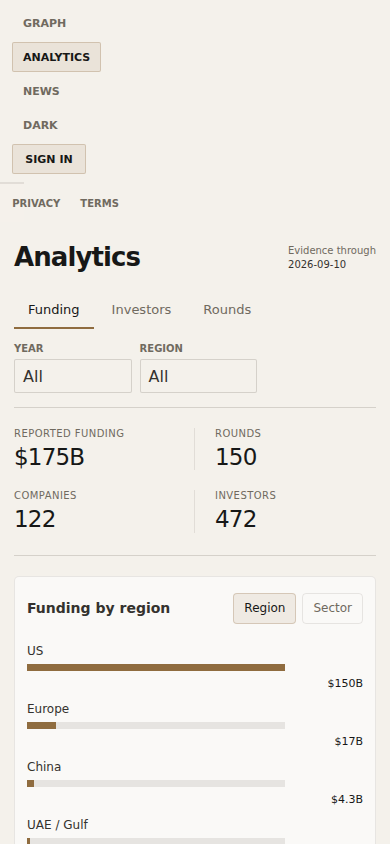
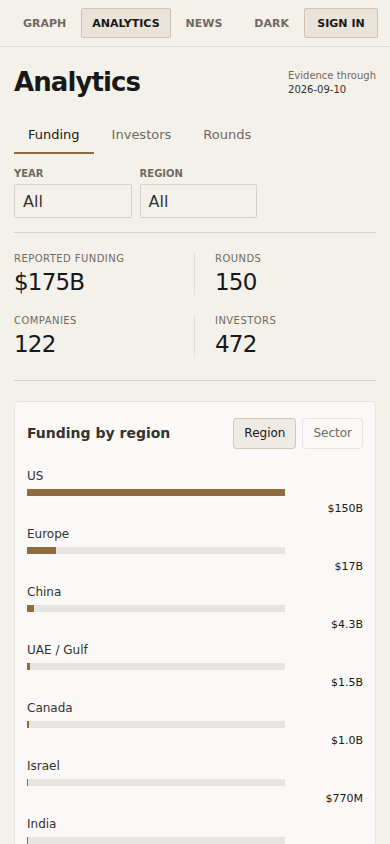
Isolate mobile graph drawer layout from analytics

diff --git a/web/src/styles.css b/web/src/styles.css
@@ -3747,7 +3747,7 @@ a {
 .ask-scope-buttons .chip:focus-visible, .chat-empty button:focus-visible { outline: 2px solid var(--accent); outline-offset: 2px; }
 
 @media (max-width: 760px) {
-  .explorer-shell, .explorer-shell.has-right, .explorer-shell.no-right {
+  .explorer-shell.graph-shell, .explorer-shell.graph-shell.has-right, .explorer-shell.graph-shell.no-right {
     grid-template-columns: minmax(0, 1fr);
     grid-template-areas: "nav" "workspace" "drawer" "footer";
   }

diff --git a/web/src/App.tsx b/web/src/App.tsx
@@ -3515,6 +3515,7 @@ export default function App() {
       className={[
     "app-shell",
     "explorer-shell",
+    view === "graph" ? "graph-shell" : "",
     view === "analytics" ? "analytics-shell" : "",
         view === "news" ? "news-shell" : "",
         isLegalView ? "legal-shell" : "",
